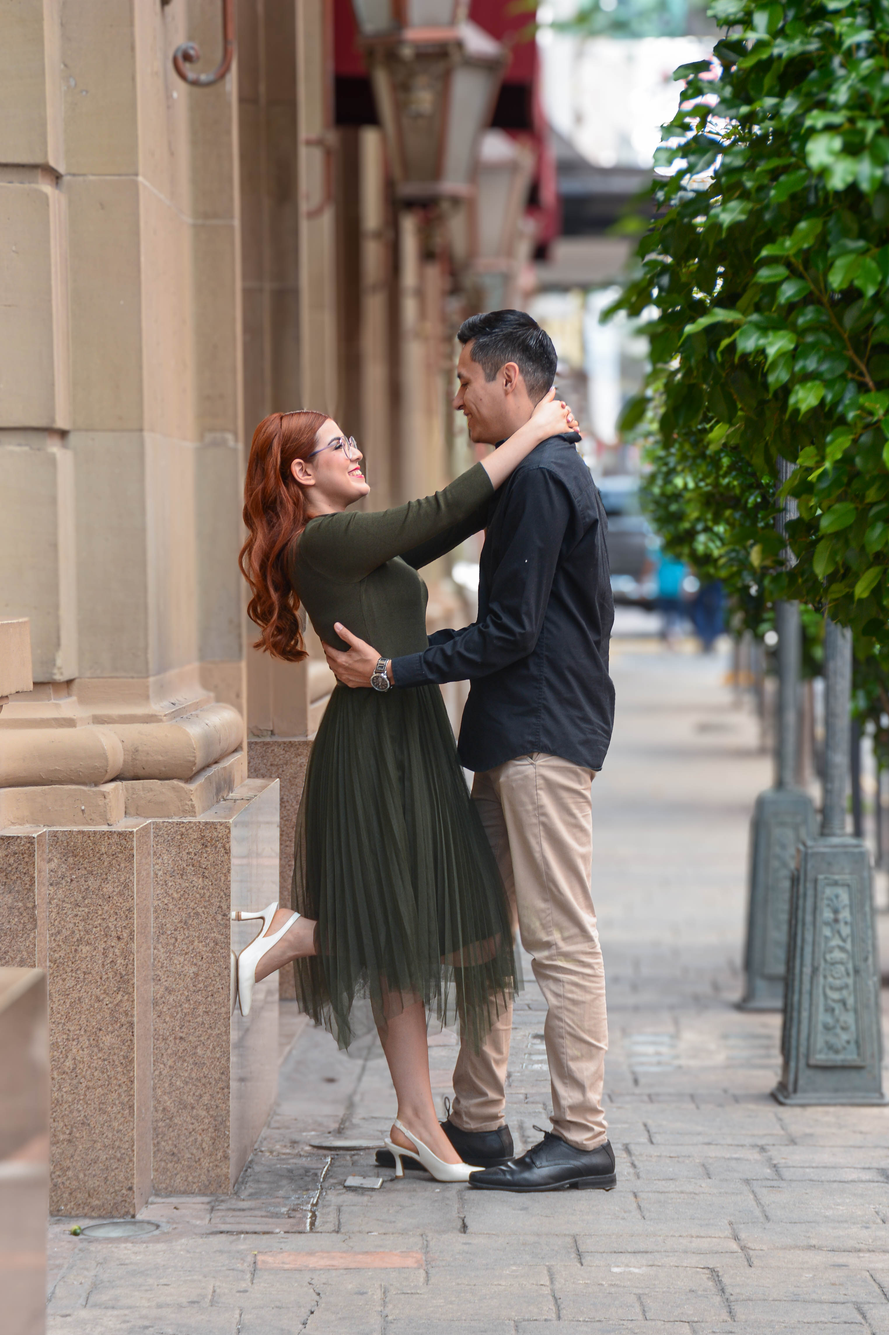
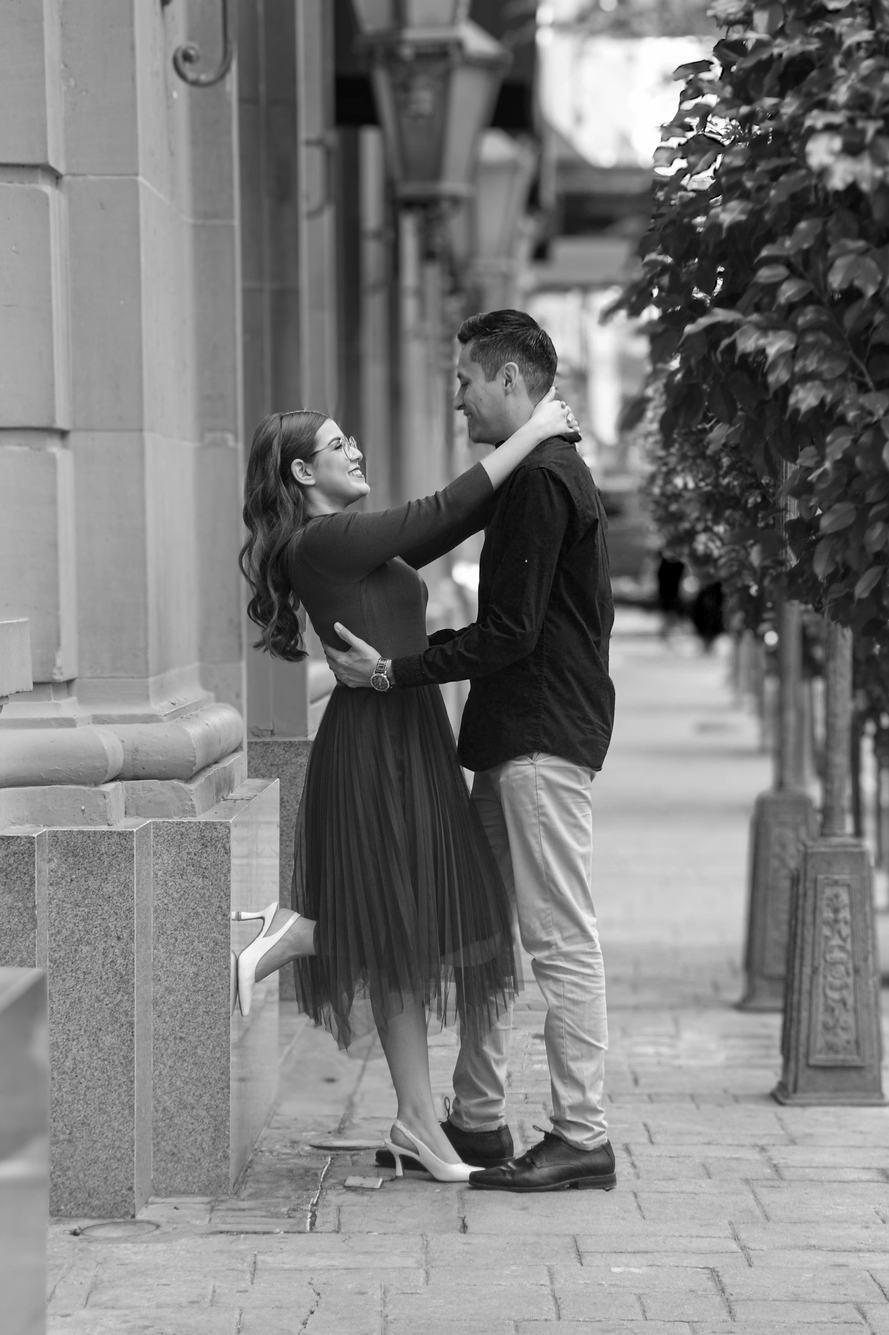
Hummber
correcciones textos agregados y colores de vestimenta

diff --git a/index.html b/index.html
@@ -245,22 +245,19 @@
     <div class="animar">
       <h2 class="text-dos">Codigo de Vestimenta</h2>
     </div>
-    <p>FORMAL NEGRO</p>
+    <p>FORMAL</p>
+    <br>
+    <p>Preferente color negro</p>
     <img src="./assets/images/vestimenta.png" alt="Icono vestimenta" class="icono-vestimenta" />
-  </section>
-
- <!-- =========================
-  MESA DE REGALOS Divide
-============================== -->
-  <section class="regalitos">
-    <p>Opciones de Regalo</p>
+       <p>Colores permitidos</p>
+    <img src="./assets/images/colores.png" alt="Icono vestimenta" class="icono-vestimenta" />
   </section>
 
  <!-- =========================
   MESA DE REGALOS 
 ============================== -->
   <section class="regalos">
-      <h2 class="text-dos">Mesa de Regalos</h2>
+      <h2 class="text-dos">Opciones de Regalos</h2>
     </div>
   <lord-icon
     src="https://cdn.lordicon.com/apmrcxtj.json"
@@ -286,6 +283,7 @@
    SECCIÓN FORMULARIO DE ASISTENCIA
 ============================== -->
   <section id="confirmacion" class="form">
+    <h2 calss="frase2">Por favor confirma tu asistencia antes del día 10 de enero del 2026</h2>
    <div class="contenedor">
     <h2 class="form-title">Confirmación de Asistencia</h2>
 

diff --git a/js/script.js b/js/script.js
@@ -8,7 +8,7 @@ const observer = new IntersectionObserver(entries => {
       entry.target.classList.add('visible');
     }
   });
-}, { threshold: 0.3 });
+}, { threshold: 0.2 });
 
 sections.forEach(section => observer.observe(section));
 
@@ -23,7 +23,7 @@ const observerAnimacion = new IntersectionObserver(entries => {
     }
   });
 }, {
-  threshold: 0.3
+  threshold: 0.2
 });
 
 elementosAnimar.forEach(elemento => observerAnimacion.observe(elemento));
@@ -58,22 +58,6 @@ if (!audio || !btn || !icon) {
       console.log("Autoplay bloqueado, esperando interacción.");
     });
   };
-
-  // Play audio on user interaction (except button)
-  document.addEventListener('click', (e) => {
-    if (!isPlaying && !btn.contains(e.target)) {
-      audio.play().then(() => {
-        const pathElement = icon.querySelector('path');
-        if (pathElement) {
-          pathElement.setAttribute('d', pauseIconPath);
-        }
-        btn.title = "Pausar canción";
-        isPlaying = true;
-      }).catch(() => {
-        console.log("Reproducción aún bloqueada.");
-      });
-    }
-  });
 
   // Toggle play/pause with button
   btn.addEventListener('click', () => {

diff --git a/css/styles.css b/css/styles.css
@@ -181,7 +181,7 @@ section.visible {
 .regalos { 
     position: relative;    /* necesario para que las flores sean absolutas respecto a la sección */
   overflow: hidden;      /* corta todo lo que sobresalga */
-  padding: 30px 20px;    /* espacio interno para tu contenido */
+  padding: 80px 20px;    /* espacio interno para tu contenido */
   background-color: #f7eee7; /* o el color que quieras */
 }
 
@@ -191,6 +191,7 @@ section.visible {
   gap: 1rem;
   justify-content: center;
   z-index: 1;
+  padding: 50px 20px;
   max-width: 1200px;
   min-height: 300px;
   background-color: #f7eee7;
@@ -199,7 +200,7 @@ section.visible {
 .gracias {
   position: relative;    /* necesario para que las flores sean absolutas respecto a la sección */
   overflow: hidden;      /* corta todo lo que sobresalga */
-  padding: 50px 20px;    /* espacio interno para tu contenido */
+  padding: 100px 20px;    /* espacio interno para tu contenido */
   background-color: #f7eee7; /* o el color que quieras */
 }
 
